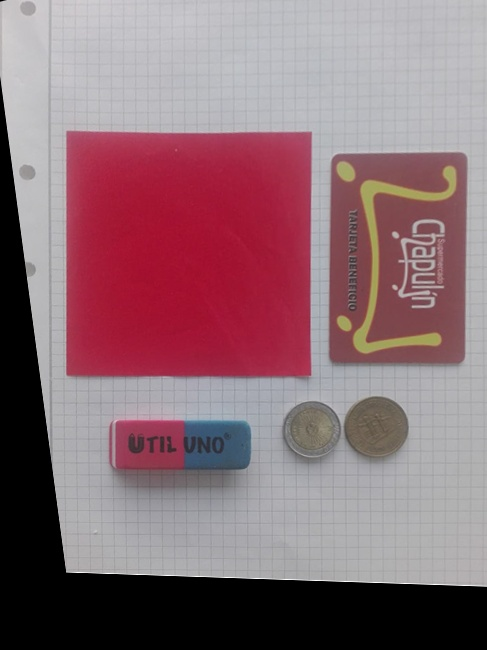
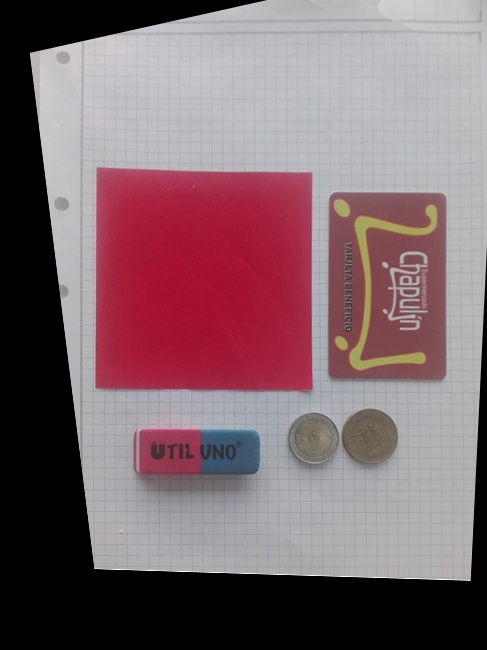
TP10

Changed region(s): [[0.0, 0.0, 1.0, 0.9231], [0.6468, 0.0308, 0.7084, 0.0615]]

diff --git a/Practico10/Practico10.py b/Practico10/Practico10.py
@@ -12,7 +12,7 @@ x4, y4 = -1, -1
 def seleccion_de_puntos(event, x, y, flags, param):
     global x1, y1, x2, y2, x3, y3, x4, y4, k, imagen_seleccion_de_ptos, seleccion_terminada
     if event == cv2.EVENT_LBUTTONDOWN:
-        cv2.circle(imagen_seleccion_de_ptos, (x, y), 3, (0, 0, 255), -1)
+        cv2.circle(imagen_seleccion_de_ptos, (x, y), 3, (0, 0, 255), -1) # Dibujo un círculo y guardo la posición
         if k == 0:
             x1, y1 = x, y
             k = 1
@@ -30,47 +30,55 @@ def seleccion_de_puntos(event, x, y, flags, param):
 imagen = cv2.imread('Imagen.jpg', cv2.IMREAD_COLOR)
 alto, ancho, _ = imagen.shape
 
-imagen_seleccion_de_ptos = imagen
+imagen_seleccion_de_ptos = imagen       # imagen_selección_de_ptos es la imagen que se mostrará y en la que seleccionaré todos los puntos
 cv2.namedWindow('Seleccion de puntos')
 cv2.setMouseCallback('Seleccion de puntos', seleccion_de_puntos)
-
 cv2.imshow('Seleccion de puntos', imagen_seleccion_de_ptos)
 
-while (seleccion_terminada == False):
+# Se pide ingresar el ancho del objeto conocido
+ancho_del_objeto = float(input('Ingrese el ancho del objeto conocido en dimensiones: '))
+alto_del_objeto = float(input('Ingrese el alto del objeto conocido en dimensiones: '))
+proporcion = alto_del_objeto/ancho_del_objeto
+
+print('Seleccione las esquinas del objeto que conoce las dimensiones')
+
+while (seleccion_terminada == False): # Refresco la imagen de selección de puntos hasta que termine de seleccionar los mismos
     cv2.waitKey(1)
     cv2.imshow('Seleccion de puntos', imagen_seleccion_de_ptos)
 
 if seleccion_terminada == True:
     # Obtenemos la matriz M
     pts1 = np.float32([[x1, y1], [x2, y2], [x3, y3], [x4, y4]])
-    pts2 = np.float32([[x1, y1], [x2, y1], [x2, y1 + x2 - x1], [x1, y1 + x2 - x1]])
+    pts2 = np.float32([[x1, y1], [x2, y1], [x2, y1 + ((x2 - x1)*proporcion)], [x1, y1 + ((x2 - x1)*proporcion)]]) # Le doy estos valores para que la imagen transformada quede centrada con respecto a la imagen original
     matrix = cv2.getPerspectiveTransform(pts1, pts2)
-    imagen_seleccion_de_ptos = cv2.imread('Imagen.jpg', cv2.IMREAD_COLOR)
-    imagen_transformada = cv2.warpPerspective(imagen_seleccion_de_ptos, matrix, (ancho, alto))
-    cv2.imwrite('imagen_transformada.jpg', imagen_transformada)
-    imagen_seleccion_de_ptos = imagen_transformada
+    imagen_seleccion_de_ptos = cv2.imread('Imagen.jpg', cv2.IMREAD_COLOR) # Vuelvo a cargar la imagen para que se borren los puntos dibujados
+    imagen_transformada = cv2.warpPerspective(imagen_seleccion_de_ptos, matrix, (ancho, alto)) # Se transforma la imagen completa
+    cv2.imwrite('imagen_transformada.jpg', imagen_transformada) # guardo la imagen
+    imagen_seleccion_de_ptos = imagen_transformada # hago que la imagen de selección de puntos sea ahora la imagen transformada
     seleccion_terminada = False
 
-while (seleccion_terminada == False):
+print('Seleccione las esquinas del objeto nuevamente')
+while (seleccion_terminada == False): # Ahora refresco la imagen transformada para que se vayan mostrando los puntos seleccionados
     cv2.waitKey(1)
     cv2.imshow('Seleccion de puntos', imagen_seleccion_de_ptos)
 
 if seleccion_terminada == True:
-    pixeles_por_cm = (x2 - x1) / 10
-    print('Pixeles por centímetro' , pixeles_por_cm)
-    imagen_seleccion_de_ptos = cv2.imread('imagen_transformada.jpg', cv2.IMREAD_COLOR)
+    # Obtenemos la cantidad de pixeles por centímetro
+    pixeles_por_cm = (x2 - x1) / ancho_del_objeto     # x2-x1, es un lado del papel glacé y este mide 10cm
+    imagen_seleccion_de_ptos = cv2.imread('imagen_transformada.jpg', cv2.IMREAD_COLOR)  # Vuelvo a cargar la imagen para que se borren los puntos dibujados
     # Obtenemos la cantidad de pixeles por centímetro
     seleccion_terminada = False
 
+# Ahora que ya hemos transformado la imagen para eliminar la perspectiva y ya hemos obtenido la cantidad de pixeles por centímetro, entramos en un bucle infinito en el que podremos medir las dimensiones de un objeto por cada vez que se ejecute el bucle
 while(1):
 
-    while (seleccion_terminada == False):
+    print('Seleccione las esquinas del objeto que desee medir')
+    while (seleccion_terminada == False): # Refrescamos la imagen mientras se selccionan los puntos extremos del objeto a medir
         cv2.waitKey(1)
         cv2.imshow('Seleccion de puntos', imagen_seleccion_de_ptos)
 
     if seleccion_terminada == True:
         #Medimos un objeto
-        print(x2 , x1 , y1 , y3)
         ancho_objeto = (x2 - x1) / pixeles_por_cm
         alto_objeto = (y3 - y1) / pixeles_por_cm
         print('El ancho es de:' , ancho_objeto , 'cm')
